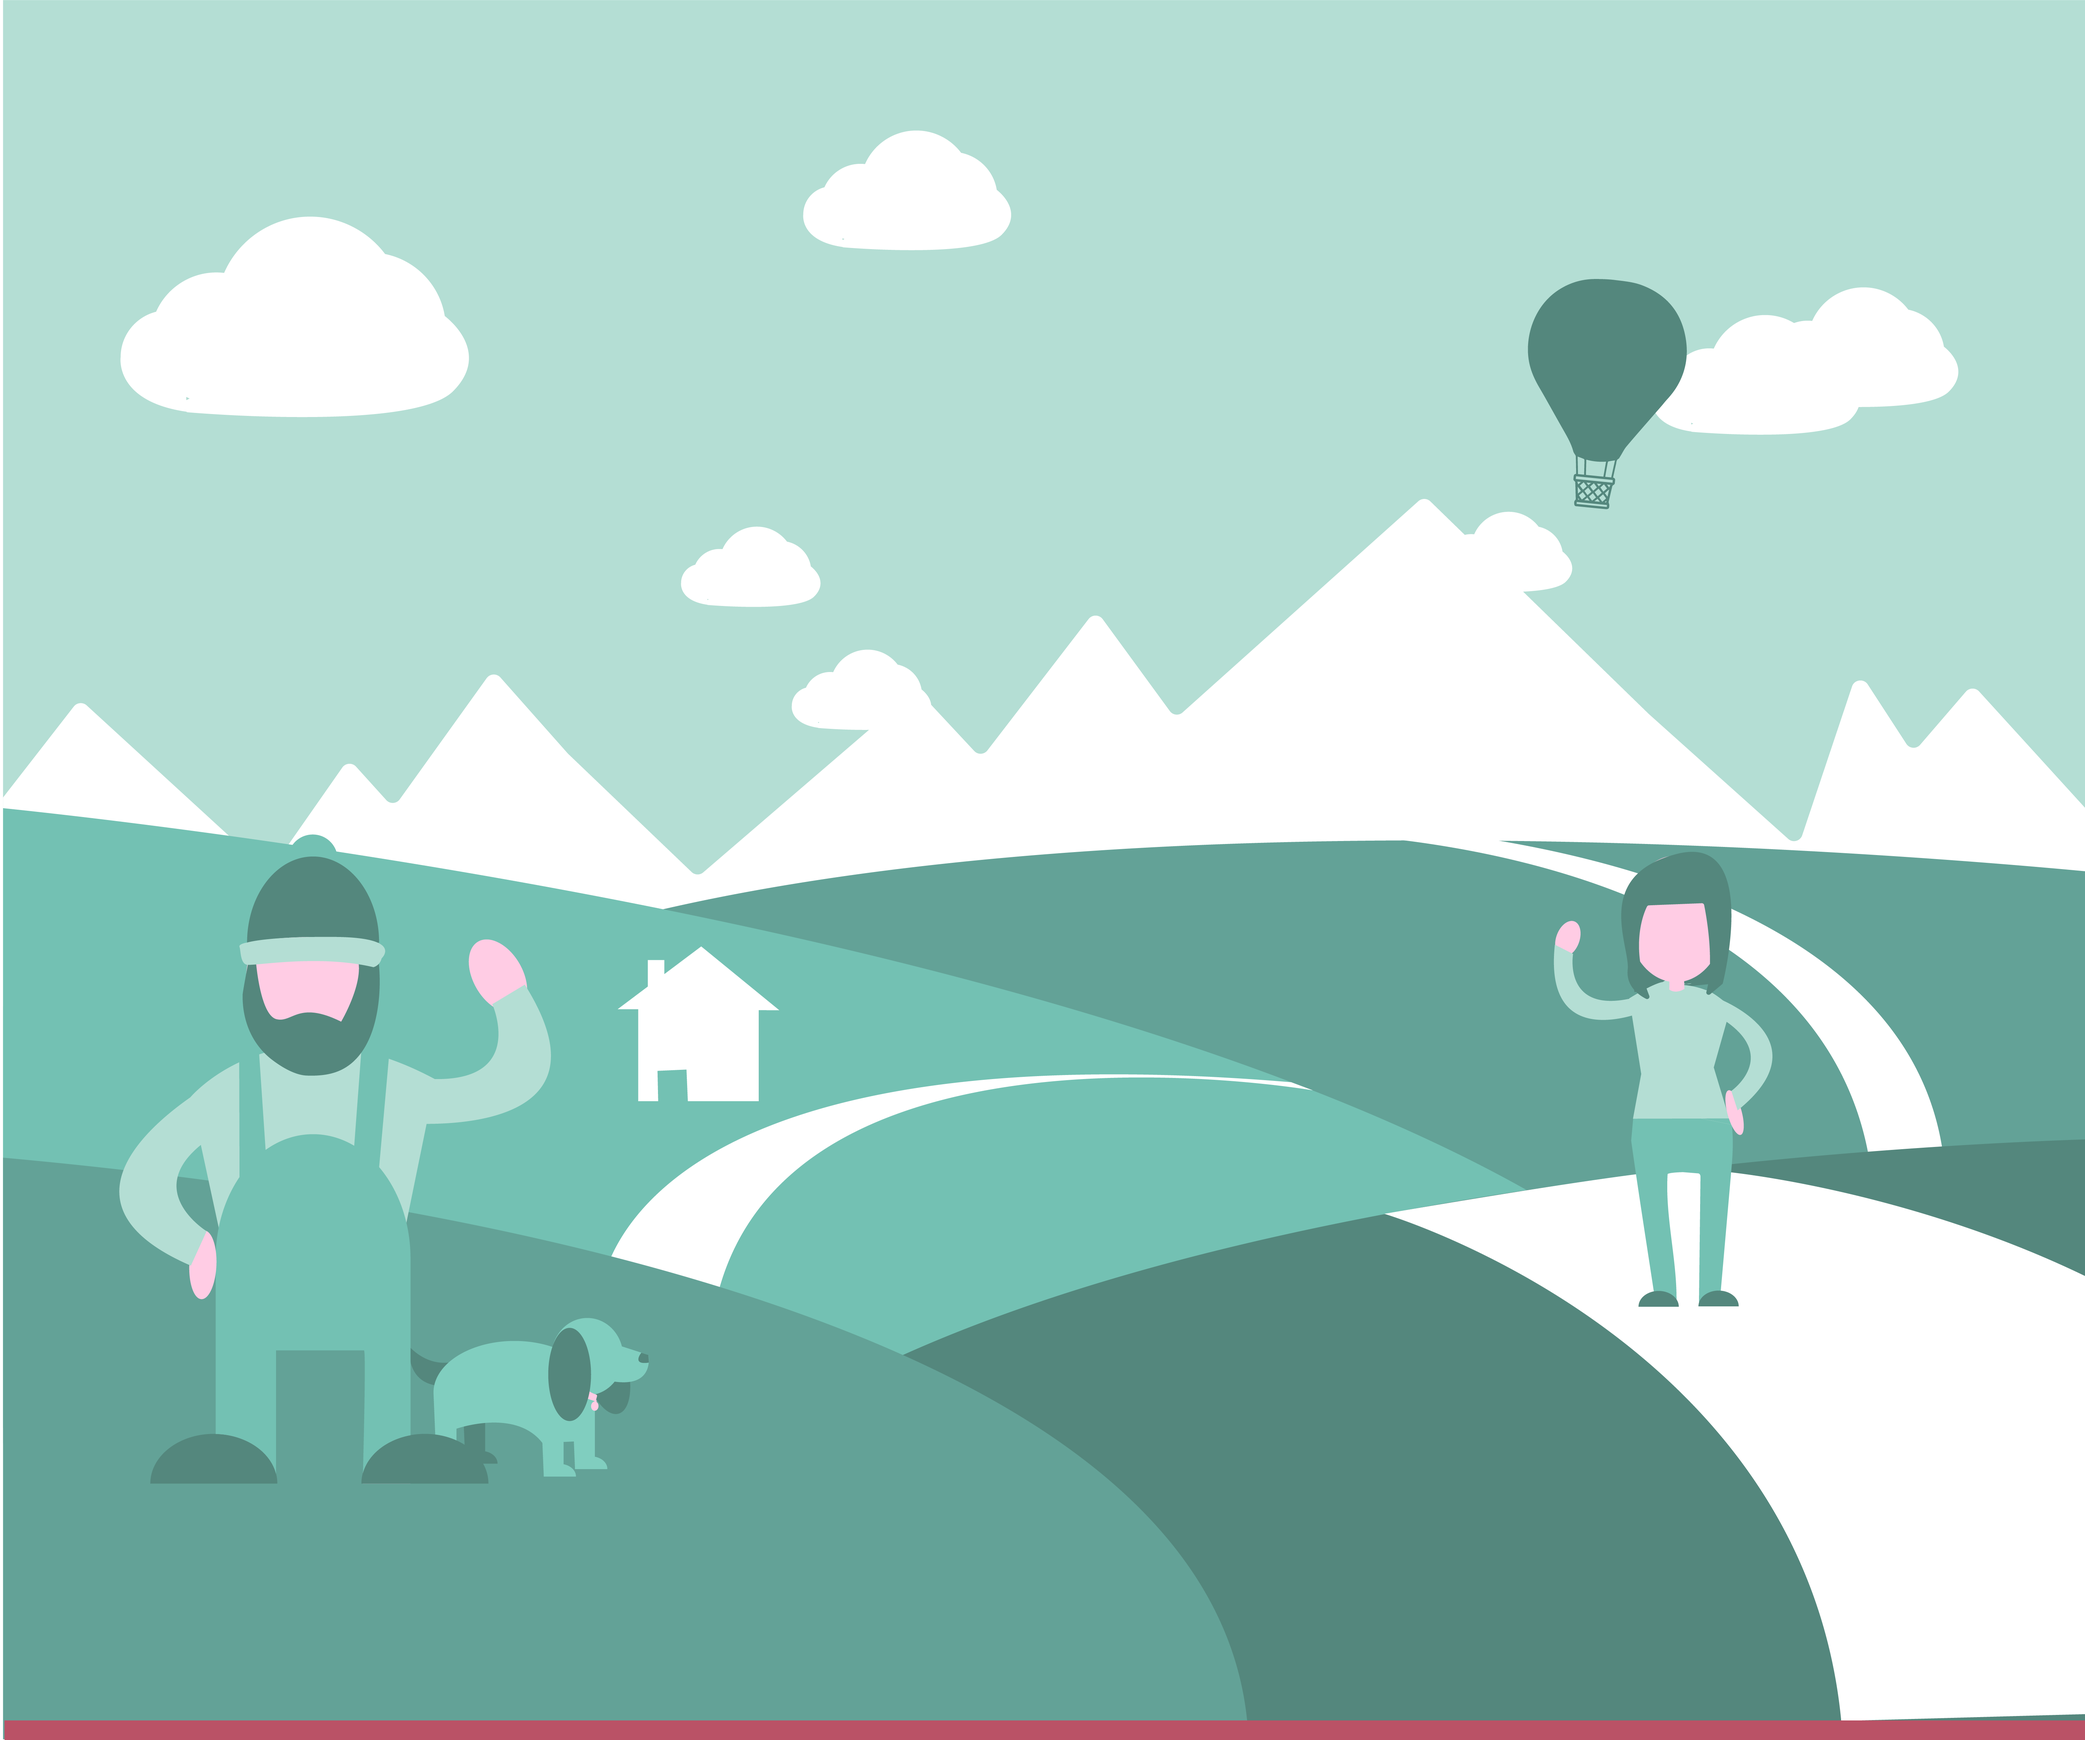
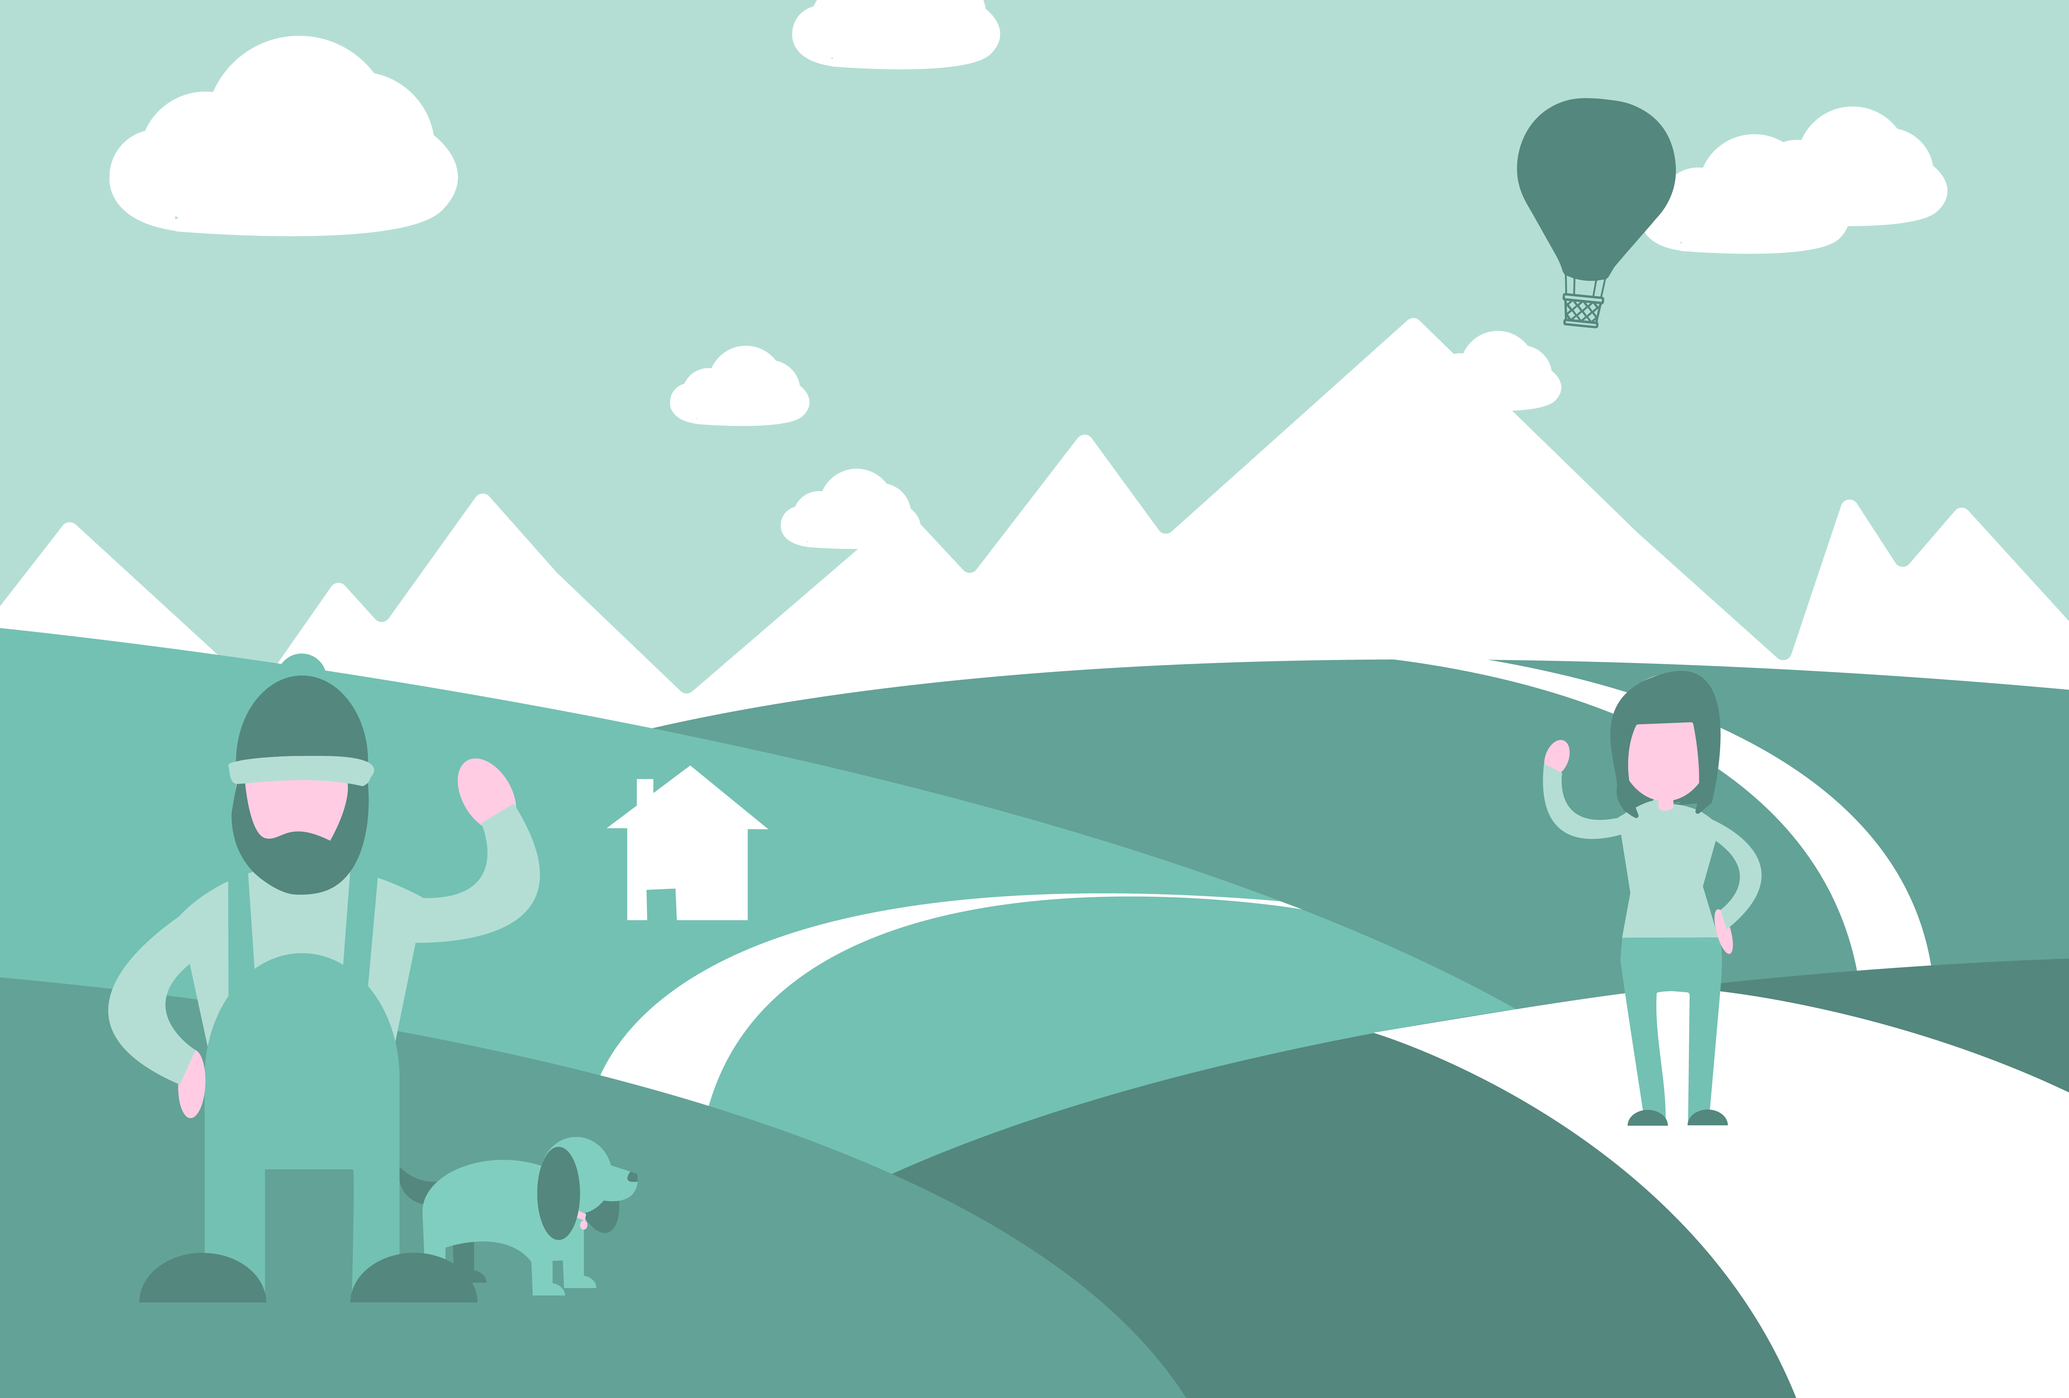
final

diff --git a/templates/login.html b/templates/login.html
@@ -10,4 +10,4 @@
     </div>
   </div>
 
-<img src="/images/bg-01.png" alt="">
+<img src="/images/sign-01.png" alt="">
